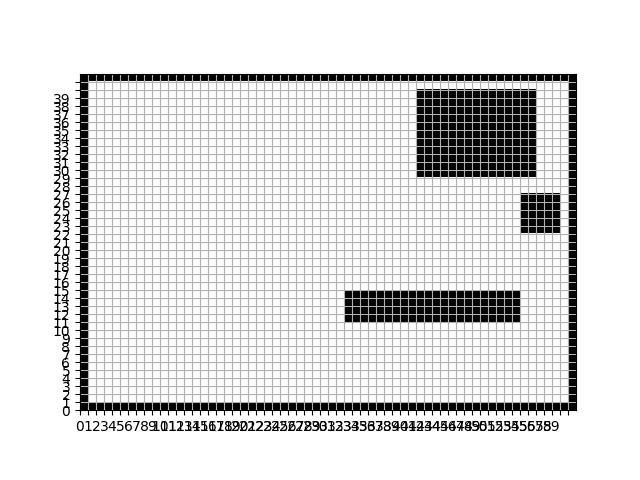
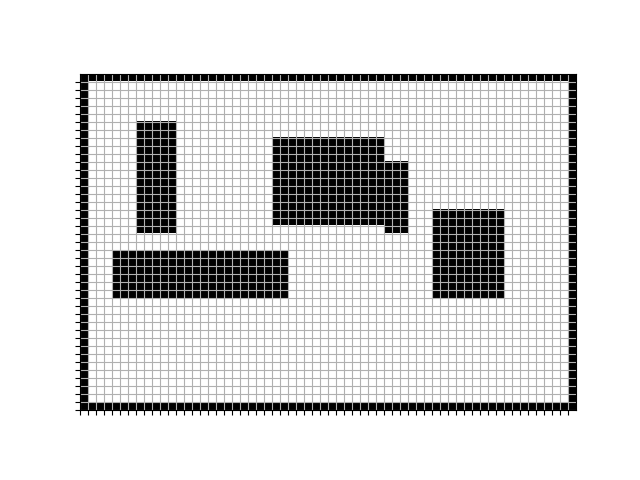
Fixed images

diff --git a/main.py b/main.py
@@ -11,14 +11,13 @@ max_obstacle_no = 5
 obstacle_no = np.random.randint(max_obstacle_no) + 2
 print(obstacle_no)
 
+
 for i in range(obstacle_no):
 
     # block out a maximum area of the grid for the obstacle
     max_dims = [np.random.randint(grid.shape[0]/2), np.random.randint(grid.shape[1]/2)]
     binary_array = np.ones((max_dims[0], max_dims[1]))
-    #print(binary_array.shape)
-    #print(grid.shape)
-    #print(max_dims[1])
+
     starting_pos = [np.random.randint(grid.shape[0]- max_dims[0]), np.random.randint(grid.shape[1] - max_dims[1])]
 
     while np.any(binary_array * grid[starting_pos[0]: starting_pos[0] + max_dims[0], starting_pos[1]: starting_pos[1] + max_dims[1]]):
@@ -82,8 +81,8 @@ robot_path[robot_path == 0] = np.nan
 ax.imshow(np.transpose(robot_path), origin='lower', cmap = my_cmap, vmin=0, vmax=1, alpha = 0.5)
 ax.set_xticks(np.arange(final.shape[0])- 0.5)
 ax.set_yticks(np.arange(final.shape[1])- 0.5)
-ax.set_xticklabels(np.arange(0, grid.shape[0], 1))
-ax.set_yticklabels(np.arange(0, grid.shape[1], 1))
+ax.set_xticklabels([])
+ax.set_yticklabels([])
 
 
 ax.grid(which='major')
